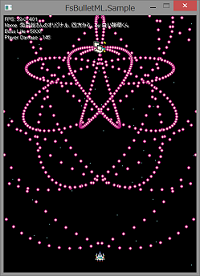
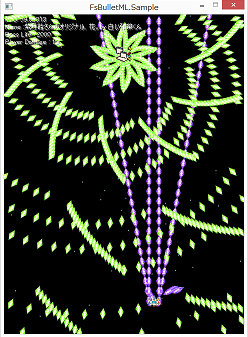
0.8.5 ReleaseNote

diff --git a/index.html b/index.html
@@ -300,8 +300,8 @@
 
 <div style="text-align:center;">
   <object width="560" height="315">
-      <param name="movie" value="http://www.youtube.com/v/sfgqZYDrWG8"></param>
-      <embed src="http://www.youtube.com/v/sfgqZYDrWG8" width="560" height="315" />
+      <param name="movie" value="https://www.youtube.com/v/S43JUbxeQIs"></param>
+      <embed src="https://www.youtube.com/v/S43JUbxeQIs" width="560" height="315" />
       <noembed>プラグインが必要です。</noembed>
   </object><br>
   サンプルプログラム(<a href="https://github.com/zecl/FsBulletML/tree/master/samples" target="_blunk">source</a>)は<a href="http://monogame.codeplex.com/" target="_blunk">MonoGame</a>で動かしています。弾の破棄はガベージコレクションに丸投げです。

diff --git a/releasenote.html b/releasenote.html
@@ -38,6 +38,13 @@
         <div class="span9" id="main">
           <h1>FsBulletML - ReleaseNote</h1>
 
+<h2>0.8.5</h2>
+
+<ul>
+<li>bug fix</li>
+<li>※FsBulletML.Sample : 弾を進行方向を反映して描画するよう修正。</li>
+</ul>
+
 <h2>0.8.4</h2>
 
 <ul>
